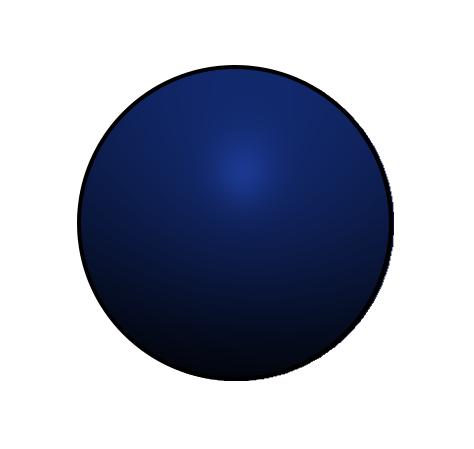
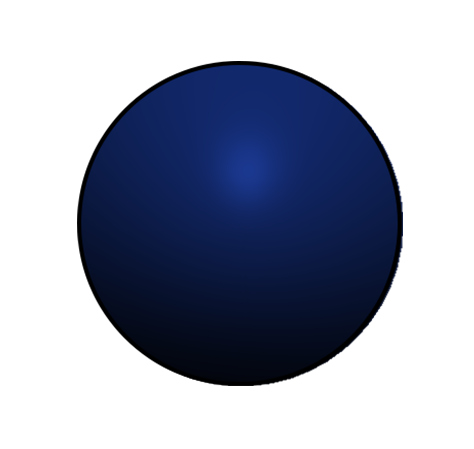
Updated dome.png, Gui, Pinger, PlayerView Created opponentViewLoser.png, OpponentViewLoser2.png

diff --git a/src/main/java/it/polimi/ingsw/client/view/gui/PlayerView.java b/src/main/java/it/polimi/ingsw/client/view/gui/PlayerView.java
@@ -91,8 +91,17 @@ public class PlayerView extends StackPane {
     //opponents list view
     private VBox opponentsView;
 
+    //opponents view background images list (I need it to set loser background)
+    private final HashMap<String, ImageView> opponentsViews = new HashMap<>();
+
+    //opponents view boxes list (I need it to set loser background)
+    private final HashMap<String, StackPane> opponentsBoxes = new HashMap<>();
+
     //opponents powers
     private final HashMap<String, Label> opponentsPowers = new HashMap<>();
+
+    //opponentsNames
+    private final HashMap<String, Label> opponentsNames = new HashMap<>();
 
     //active powers
     private VBox activePowersContent;
@@ -735,7 +744,10 @@ public class PlayerView extends StackPane {
             Image opponentImg = new Image(PlayerView.class.getResource("/img/matchPage/opponentView"+opponentColor+".png").toString(),screenWidth/5, screenHeight/5,false,false);
             ImageView opponentView = new ImageView(opponentImg);
 
+            opponentsViews.put(opponent.name, opponentView);
+
             Label opponentName = new Label(opponent.name);
+            opponentsNames.put(opponent.name, opponentName);
             if(opponent.name.length()>20)
                 opponentName.setFont(Font.loadFont(PlayerView.class.getResourceAsStream("/fonts/LillyBelle.ttf"), screenWidth/100));
             else
@@ -757,6 +769,8 @@ public class PlayerView extends StackPane {
             opponentBox.getChildren().addAll(opponentView, opponentName, opponentCardName);
             setAlignment(opponentName, TOP_CENTER);
             opponentBox.setPrefHeight(screenHeight/5);
+
+            opponentsBoxes.put(opponent.name, opponentBox);
 
             opponentsView.getChildren().add(opponentBox);
         }
@@ -1244,4 +1258,28 @@ public class PlayerView extends StackPane {
             }
         }
     }
+
+    public void setLoser(String loser){
+        Image loserImg = new Image(PlayerView.class.getResource("/img/matchPage/opponentViewLoser.png").toString(),screenWidth/5, screenHeight/5,false,false);
+        opponentsViews.get(loser).setImage(loserImg);
+
+        Image loser2Img = new Image(PlayerView.class.getResource("/img/matchPage/opponentViewLoser2.png").toString(),screenWidth/5, screenHeight/5,false,false);
+        ImageView loserView = new ImageView(loser2Img);
+
+        opponentsBoxes.get(loser).getChildren().add(loserView);
+
+        opponentsNames.get(loser).setTextFill(WHITE);
+
+        opponentsPowers.get(loser).setVisible(false);
+        opponentsPowers.get(loser).setManaged(false);
+
+        Label loserStory = new Label(loser + " lost the match");
+        loserStory.setFont(lillybelle);
+        loserStory.setTextAlignment(TextAlignment.CENTER);
+        loserStory.setAlignment(CENTER);
+        loserStory.setMaxWidth(screenWidth/2.5);
+        loserStory.setWrapText(true);
+        storyContent.getChildren().add(loserStory);
+    }
+
 }

diff --git a/src/main/java/it/polimi/ingsw/client/view/gui/Gui.java b/src/main/java/it/polimi/ingsw/client/view/gui/Gui.java
@@ -505,6 +505,7 @@ public class Gui extends Application implements View {
 
         Text screenSizeText = new Text("Choose window dimension");
         screenSizeText.setFont(lillybelleFont);
+        screenSizeText.setTextAlignment(TextAlignment.CENTER);
         screenSizeText.setWrappingWidth(screenWidth/5);
 
         screenSizeOptions = new ComboBox(FXCollections.observableArrayList(
@@ -1337,7 +1338,6 @@ public class Gui extends Application implements View {
      */
     @Override
     public void setLoser(PlayerProxy player) {
-        //todo
-        System.out.println("LLLLLLLLLLLLLLLLLLOOOOOOOOOOOOOOOOOOOOOOOOOOOOSSSSSSSSSSSSSSSSSSSSEEEEEEEEEEEEEEERRRRRRRRR");
+        Platform.runLater(() -> matchScene.playerView().setLoser(player.name));
     }
 }

diff --git a/src/main/java/it/polimi/ingsw/network/Pinger.java b/src/main/java/it/polimi/ingsw/network/Pinger.java
@@ -38,6 +38,7 @@ public class Pinger extends Thread {
 
             if (!communicationChannel.isClosed() && (countdown == 0 || !communicationChannel.isPinged())) {
                 communicationChannel.close();
+                notifyAll();
                 System.out.println("Client non connesso");
             }
             else {
